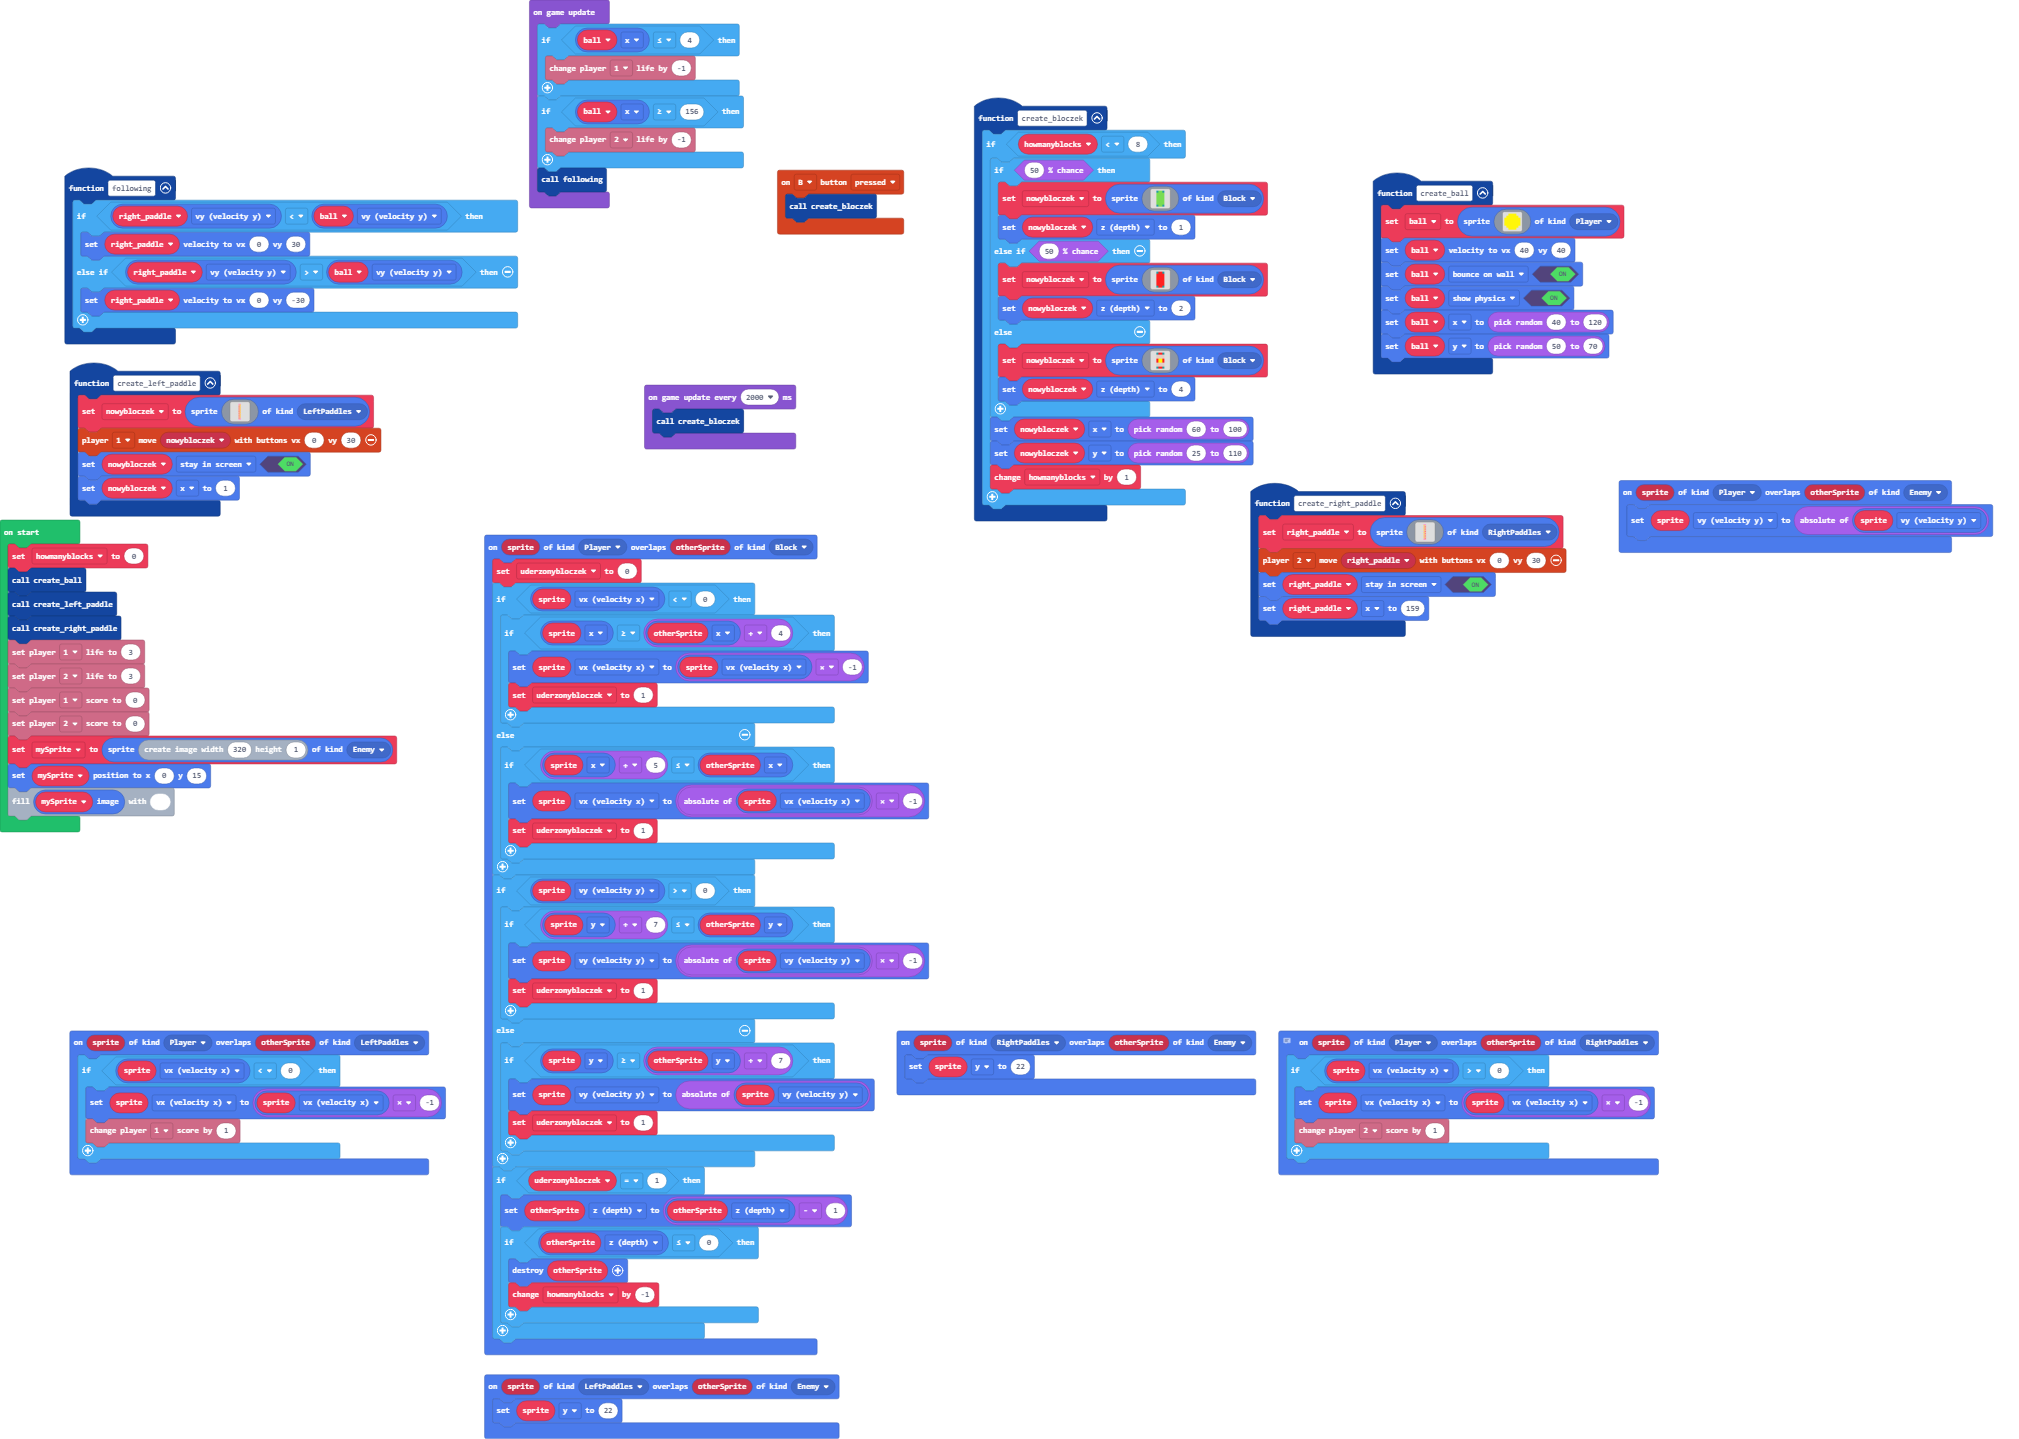
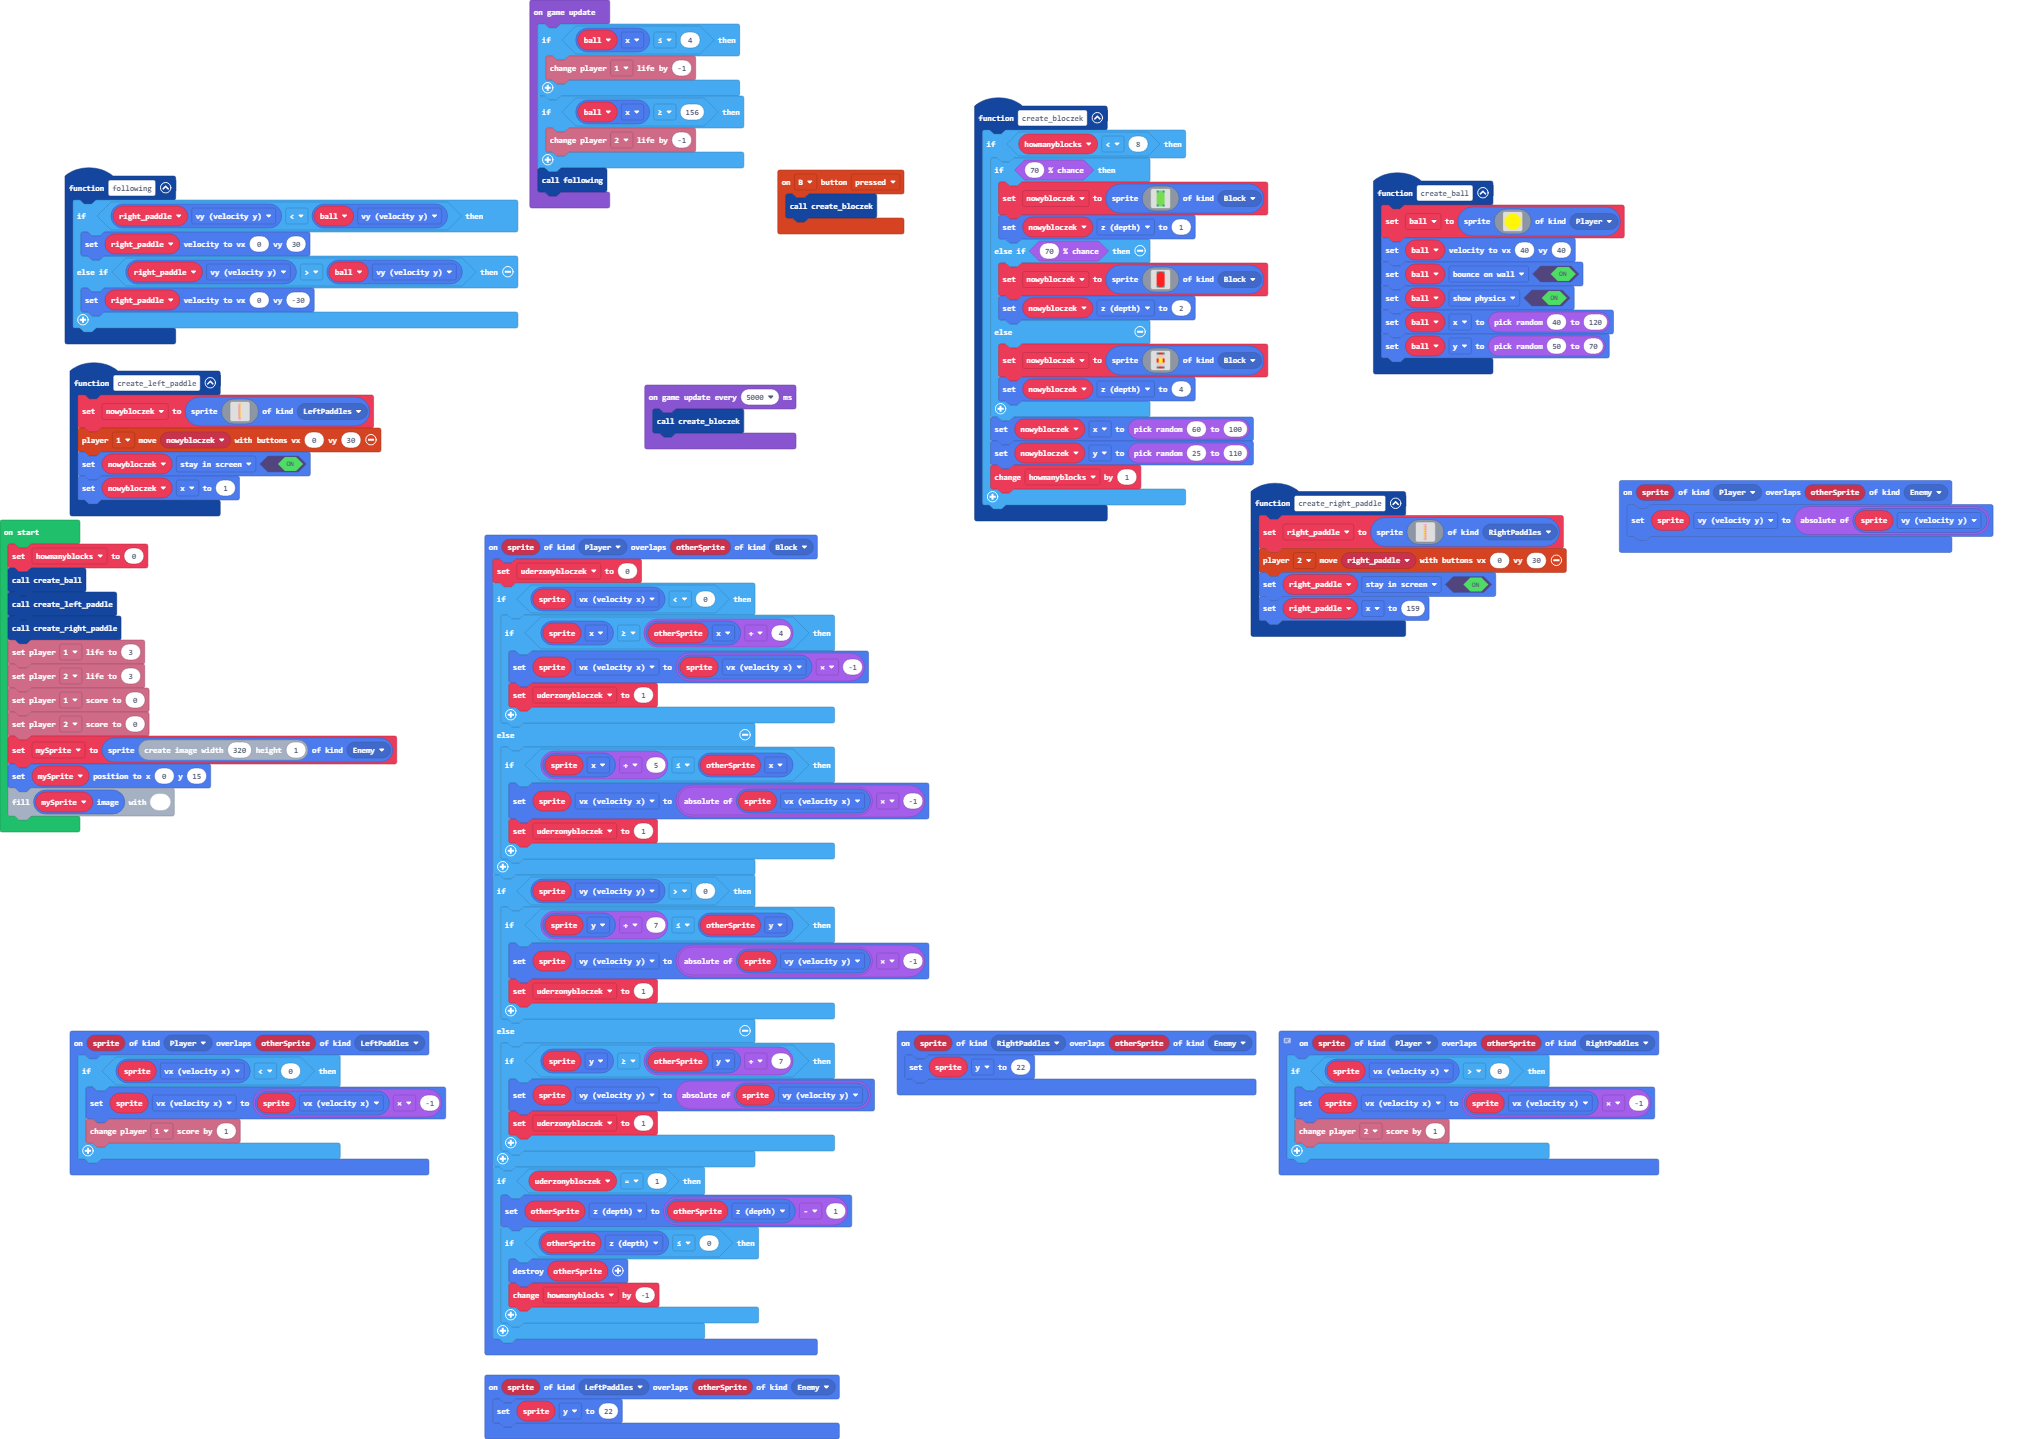
Update main.blocks, main.ts

diff --git a/main.ts b/main.ts
@@ -73,7 +73,7 @@ function following () {
 }
 function create_bloczek () {
     if (howmanyblocks < 8) {
-        if (Math.percentChance(50)) {
+        if (Math.percentChance(70)) {
             nowybloczek = sprites.create(img`
                 6 7 7 6 
                 7 7 7 7 
@@ -85,7 +85,7 @@ function create_bloczek () {
                 6 7 7 6 
                 `, SpriteKind.Block)
             nowybloczek.z = 1
-        } else if (Math.percentChance(50)) {
+        } else if (Math.percentChance(70)) {
             nowybloczek = sprites.create(img`
                 6 2 2 6 
                 2 2 2 2 
@@ -211,6 +211,6 @@ game.onUpdate(function () {
     }
     following()
 })
-game.onUpdateInterval(2000, function () {
+game.onUpdateInterval(5000, function () {
     create_bloczek()
 })
